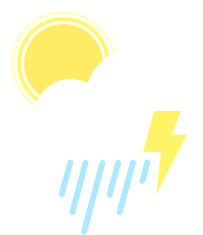
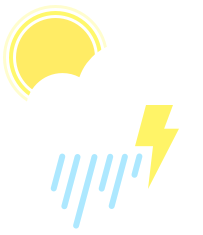
se agrega nuevo toggle button, se arreglan imagenes de daysweather que no estaban centradas. Editandolas en photoshop, ahora se ven mas grandes

Changed region(s): [[0.2365, 0.4468, 0.9163, 1.0], [0.0, 0.0, 0.5616, 0.4766]]

diff --git a/src/components/searchMenu/ToggleButton2.js b/src/components/searchMenu/ToggleButton2.js
@@ -1,0 +1,42 @@
+import React from "react";
+import "../../styles/ToggleButton2.scss";
+import { useContext } from "react";
+import { UIContext } from "../../context/UIContext";
+import { ThemeContext } from "../../context/ThemeContext";
+import styled from "styled-components";
+
+const ToggleButton2 = () => {
+  const { handleFarenheit } = useContext(UIContext);
+  const { isDark } = useContext(ThemeContext);
+
+  return (
+    <Label isDark={isDark} className="button" htmlFor="toggle">
+      <input id="toggle" type="checkbox" onClick={() => handleFarenheit()} />
+      <span className="slider"></span>
+    </Label>
+  );
+};
+
+export default ToggleButton2;
+
+const Label = styled.label`
+  display: inline-block;
+  width: 48px;
+  height: 28px;
+  background-color: none;
+  border: solid 2px ${(props) => (props.isDark ? "#9f9eac" : "#beecff")};
+  border-radius: 30px;
+  cursor: pointer;
+  padding: 1px;
+  font-family: "Raleway", "Roboto", sans-serif;
+  font-weight: 700;
+  position: absolute;
+  top: 20px;
+  right: 105px;
+  color: ${(props) => (props.isDark ? "#9f9eac" : "#beecff")};
+
+  &:hover {
+    border: solid 2px ${(props) => (props.isDark ? "#e7e7eb" : "#ffffff")};
+    color: ${(props) => (props.isDark ? "#e7e7eb" : "#ffffff")};
+  }
+`;

diff --git a/src/components/currentWeather/TempCurrent.js b/src/components/currentWeather/TempCurrent.js
@@ -2,7 +2,10 @@ import React from "react";
 import "../../styles/TempCurrent.scss";
 import { useContext } from "react";
 import { CoordsContext } from "../../context/CoordsContext.js";
-import { kelvinToCelsius, kelvintToFarenheit } from "../../utils/weatherConversion";
+import {
+  kelvinToCelsius,
+  kelvintToFarenheit,
+} from "../../utils/weatherConversion";
 import { ThemeContext } from "../../context/ThemeContext";
 import { UIContext } from "../../context/UIContext";
 
@@ -15,14 +18,12 @@ const TempCurrent = () => {
     <div className="tempCurrent">
       <p className={`tempValue ${isDark ? "dark" : "light"}-pri-text`}>
         {farenheit
-         ? kelvintToFarenheit(weatherData[selectedDay]?.main.temp)
-         : kelvinToCelsius(weatherData[selectedDay]?.main.temp)}
+          ? kelvintToFarenheit(weatherData[selectedDay]?.main.temp)
+          : kelvinToCelsius(weatherData[selectedDay]?.main.temp)}
       </p>
 
       <p className={`tempUnity ${isDark ? "dark" : "light"}-sec-text`}>
-        {farenheit
-          ? "°F"
-          : "°C"}
+        {farenheit ? "°F" : "°C"}
       </p>
     </div>
   );

diff --git a/src/components/currentWeather/navbar.js b/src/components/currentWeather/navbar.js
@@ -7,7 +7,7 @@ import { useContext } from "react";
 import { UIContext } from "../../context/UIContext";
 import { ThemeContext } from "../../context/ThemeContext";
 import { CoordsContext } from "../../context/CoordsContext";
-import ToggleButton from "../searchMenu/ToggleButton";  
+import ToggleButton2 from "../searchMenu/ToggleButton2";
 
 function NavBar() {
   const { handleMenuOpened } = useContext(UIContext);
@@ -28,7 +28,7 @@ function NavBar() {
         className={`radar ${isDark ? "dark" : "light"}-sec-text`}
         onClick={() => handleMenuOpened()}
       />
-      <ToggleButton/>
+      <ToggleButton2 />
       <BiCurrentLocation
         className={`geolocate ${isDark ? "dark" : "light"}-sec-text`}
         onClick={() => handleGeoActive()}

diff --git a/src/styles/daysWeatherBox.scss b/src/styles/daysWeatherBox.scss
@@ -13,6 +13,11 @@
     align-items: center;
     padding: 15px 15px;
 
+    .sliceBox {
+      margin: 0;
+      padding: 0;
+    }
+
     @media (min-width: 1280px) {
       flex-direction: row;
       align-items: stretch;
@@ -27,15 +32,18 @@
     .ImgClima {
       width: 74px;
       height: 86px;
-      margin: 0;
-      margin-bottom: 20px;
+      display: flex;
+      align-items: center;
+      justify-content: center;
+      text-align: center;
+      margin: auto;
 
       @media (min-width: 1280px) {
         margin-bottom: 0px;
       }
 
       img {
-        width: 74px;
+        height: 100%;
       }
     }
     .TempsDay {

diff --git a/src/styles/ToggleButton2.scss b/src/styles/ToggleButton2.scss
@@ -1,0 +1,32 @@
+#toggle {
+  display: none;
+}
+
+.slider {
+  display: block;
+  line-height: 16px;
+  font-size: 16px;
+  position: relative;
+  margin-top: 5px;
+  margin-left: 1px;
+}
+
+.slider::after {
+  content: "ºC";
+  width: 25px;
+  height: 25px;
+  border: none;
+  border-radius: 50%;
+  position: absolute;
+  top: -5px;
+  left: 0;
+  display: grid;
+  place-content: center;
+  line-height: 0;
+  transition: background-color 0.25s, transform 0.25s ease-in;
+}
+
+#toggle:checked + .slider::after {
+  content: "ºF";
+  transform: translateX(16px) rotate(360deg);
+}

diff --git a/src/styles/daysWeather.scss b/src/styles/daysWeather.scss
@@ -10,6 +10,7 @@
     font-weight: 700;
     font-size: 24px;
     line-height: 28px;
+    text-align: center;
     margin-bottom: 16px;
   }
   .DaysContainer {
